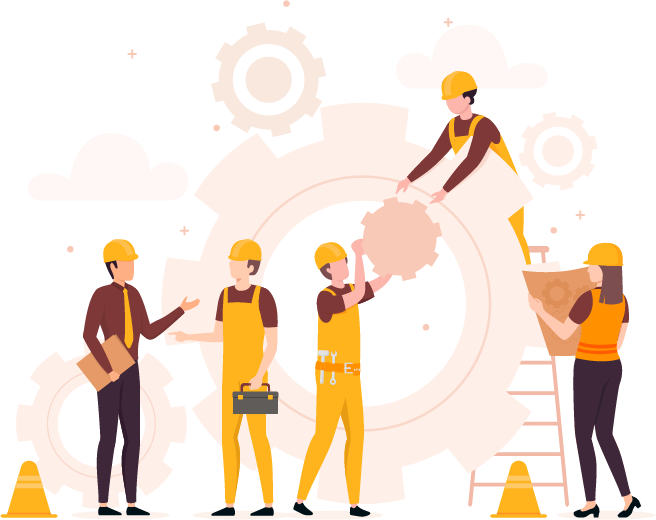
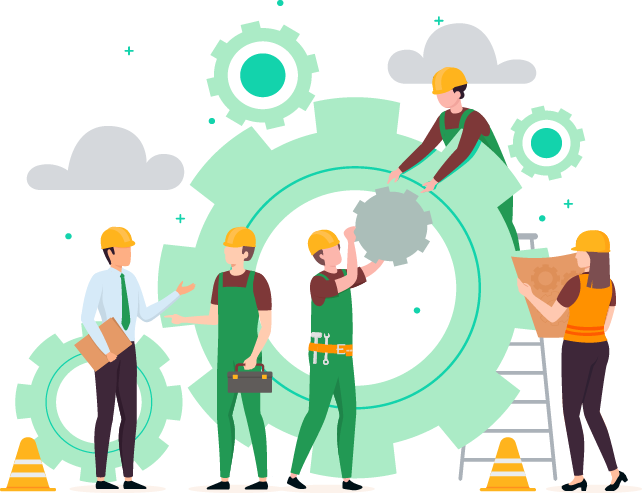
Login Art Update

diff --git a/resources/views/auth/login.blade.php b/resources/views/auth/login.blade.php
@@ -71,7 +71,7 @@
                                 </div>
 
                                 <div class="col-md-6">
-                                    <button type="submit" id="butn" class="btn px-3 w-100 btn-primary shadow">
+                                    <button type="submit" id="butn" class="btn px-3 w-100 btn-success shadow">
                                         {{ __('Sign In') }}
                                     </button>
                                 </div>
